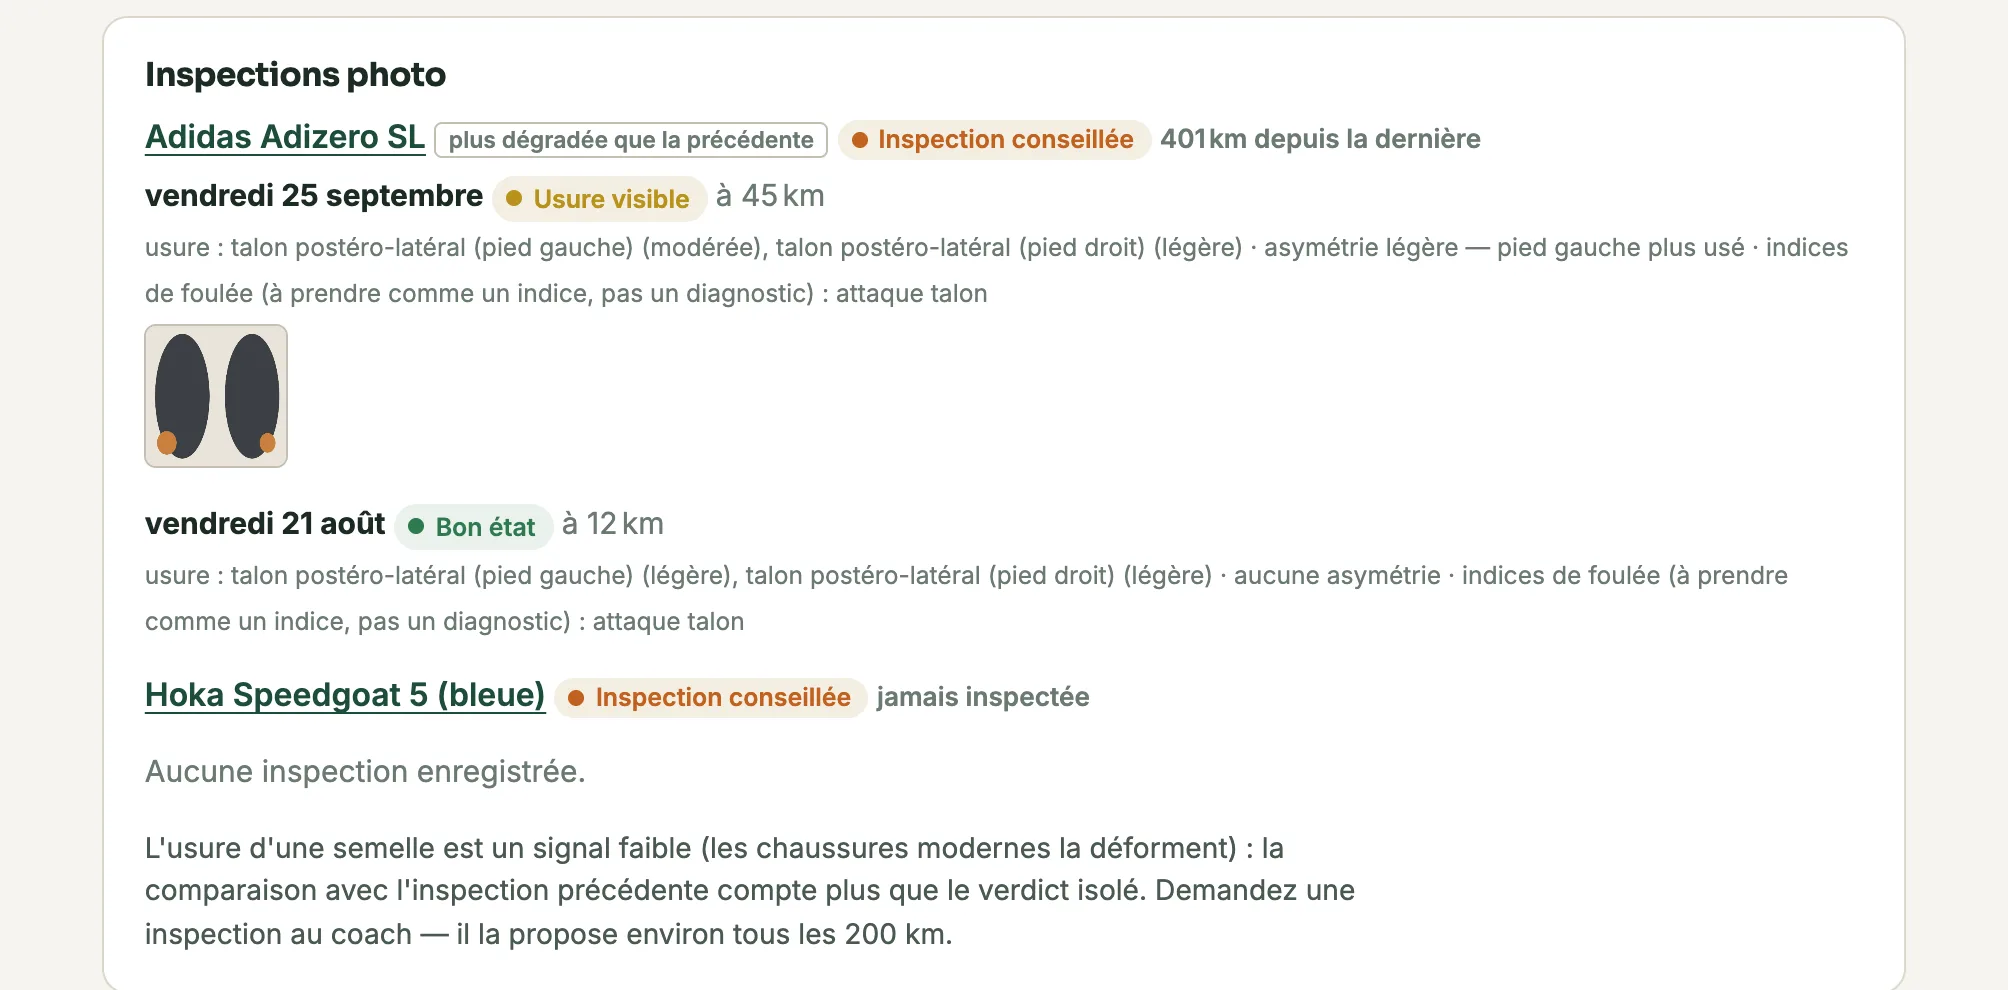
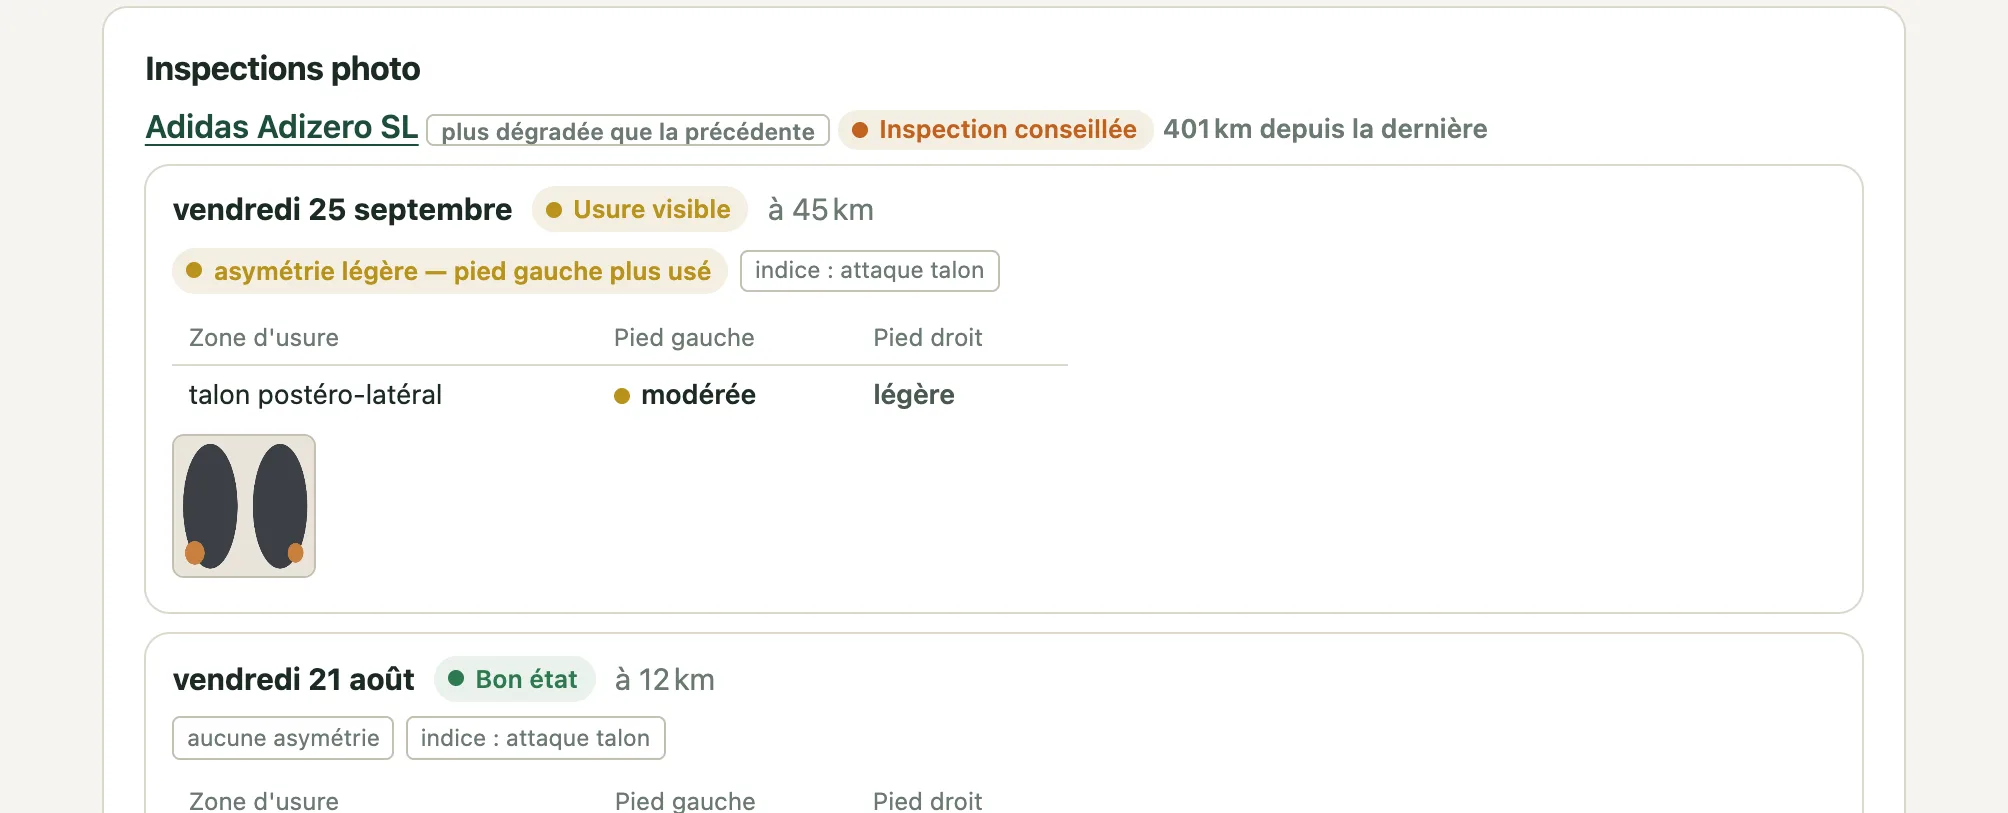
docs(foulée): captures de la carte Foulée et de la nouvelle mise en page des inspections (#151)
Workspace de démonstration (tests/lib/synthetic.py --with-samples), aucune donnée personnelle.

diff --git a/docs/dashboard/views.md b/docs/dashboard/views.md
@@ -373,6 +373,12 @@ le coach n'a pas tranché : rien n'est inventé.
 
 ![Santé, carte Foulée : tendances mesurées par la montre, indices des inspections photo, confiance et désaccords](../assets/dashboard/sante-foulee.webp)
 
+*La carte Foulée (workspace de démonstration) : 98 séances de course avec dynamique, dont 71 avec
+balance ; chaque grandeur avec sa moyenne et son sens de variation sur les 4 dernières semaines ;
+la balance reste dans la bande grisée de ±1 point autour de 50 % ; en bas, les indices tirés des
+inspections photo et les deux désaccords relevés — indices d'attaque différents selon la paire, et
+usure asymétrique alors que la balance mesurée est symétrique (« la mesure prime »).*
+
 Une carte en bas de la vue Santé (#151), montrée **même quand le bilan matinal est désactivé**
 (elle ne dépend pas de `[health].morning_check` : aucune donnée de santé du matin). Elle sépare
 ce qui est **mesuré** de ce qui est **deviné** :
